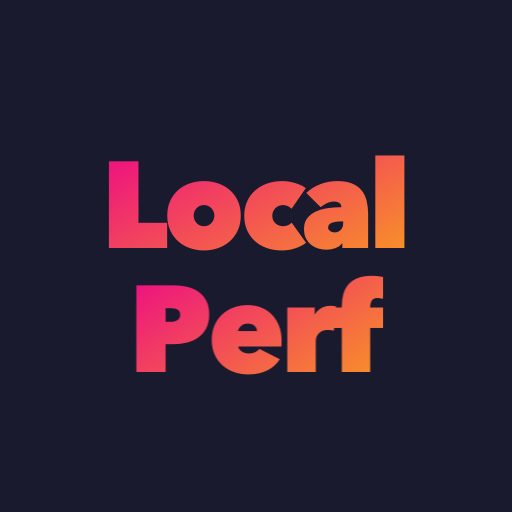
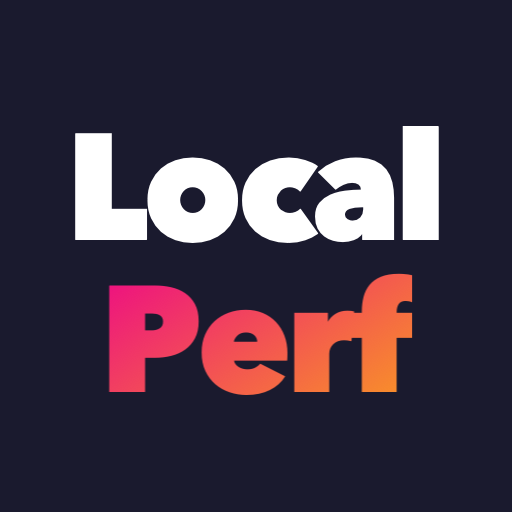
Wordmark cohérent partout : « Local » blanc + « Perf » dégradé
- Header (.logo) aligné sur le style du wordmark : « Local » blanc, « Perf »
  en dégradé (était entièrement en dégradé)
- Icône du raccourci : « Local » blanc + « Perf » dégradé, texte agrandi

Changed region(s): [[0.125, 0.2188, 0.875, 0.5], [0.1875, 0.5312, 0.8125, 0.7812]]

diff --git a/index.html b/index.html
@@ -48,7 +48,8 @@ body { font-family: -apple-system,'Segoe UI',system-ui,sans-serif; background:#f
 
 /* HEADER */
 header { background:var(--dark); padding:0 16px; height:56px; display:flex; align-items:center; justify-content:space-between; position:sticky; top:0; z-index:100; box-shadow:0 2px 12px rgba(0,0,0,0.3); }
-.logo { font-weight:900; font-size:18px; background:var(--gradient); -webkit-background-clip:text; -webkit-text-fill-color:transparent; background-clip:text; }
+.logo { font-weight:900; font-size:18px; color:#fff; }
+.logo .p { background:var(--gradient); -webkit-background-clip:text; background-clip:text; -webkit-text-fill-color:transparent; }
 .user-badge { background:rgba(255,255,255,0.1); border:1px solid rgba(255,255,255,0.15); color:white; padding:5px 12px; border-radius:20px; font-size:11px; font-weight:600; cursor:pointer; max-width:160px; overflow:hidden; text-overflow:ellipsis; white-space:nowrap; }
 .sync-dot { width:8px; height:8px; border-radius:50%; background:var(--muted); transition:background 0.3s; flex-shrink:0; }
 .sync-dot.online { background:var(--success); }
@@ -613,7 +614,7 @@ textarea { resize:vertical; min-height:64px; }
 <header>
   <div style="display:flex;align-items:center;gap:8px">
     <div class="sync-dot" id="syncDot"></div>
-    <div class="logo">LocalPerf</div>
+    <div class="logo">Local<span class="p">Perf</span></div>
   </div>
   <div class="user-badge" id="userBadge" onclick="askLogout()">—</div>
 </header>
